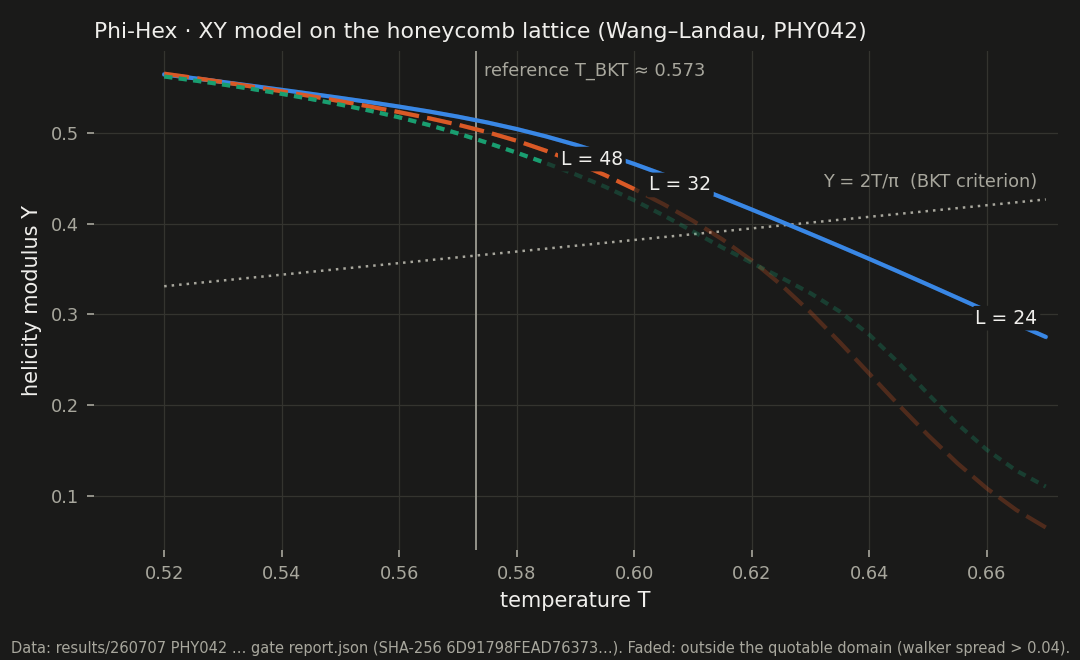
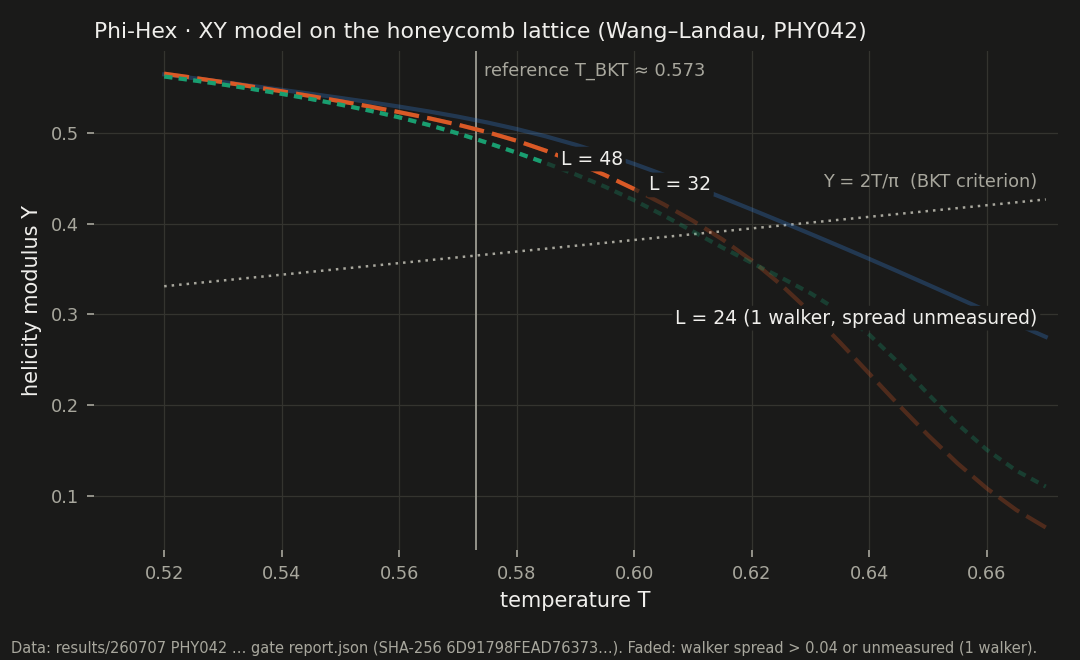
fix(#51): ordered pilot grid; requalify PHY042 L24 domain in README + figure
- _is_pilot_budget compares the grid in its supplied (ascending) order:
  run_phy043 keeps the caller's order and the crossing/tail scans assume
  ascending T, so a reordered complete grid no longer earns NR-PHY043-01.
  Regression test covers reversed and rotated grids (mutation-checked:
  restoring sorted() turns it red).
- README: L24 ran with one walker, so its spread domain is unmeasured; the
  JSON value 0.67 is the W4 erratum. Domain row and the (24,32) pair are
  requalified (pair spread only covers the L32 walkers).
- make_readme_figure.py ignores domain_tmax_spread004 for single-walker L
  (reads n_walkers); L=24 is drawn fully faded and labelled. PNGs regenerated.

Addresses both Codex P2 threads on e068b5d.

diff --git a/docs/figures/make_readme_figure.py b/docs/figures/make_readme_figure.py
@@ -4,6 +4,9 @@ Every plotted number is read from
 ``results/260707 PHY042 honeycomb wl-fss L24-32-48 gate report.json``; nothing
 is fitted or smoothed here. Curves are drawn solid inside each L's quotable
 domain (``domain_tmax_spread004``: walker spread <= 0.04) and faded beyond it.
+An L run with a single walker has no measured spread, so its historical
+``domain_tmax_spread004`` entry (the W4 data-semantics erratum, Issue #45) is
+ignored and the whole curve stays faded.
 
     python docs/figures/make_readme_figure.py
 
@@ -48,6 +51,7 @@ def draw(report: dict, sha16: str, theme: str) -> Path:
     ax.set_facecolor(c["surface"])
     curves = report["main_curves"]
     domains = report["domain_tmax_spread004"]
+    walkers = report["n_walkers"]
     t_all = curves[next(iter(curves))]["T"]
     ax.plot(t_all, [2.0 * t / math.pi for t in t_all], color=c["muted"],
             lw=1.2, ls=(0, (1, 2)), zorder=1)
@@ -60,7 +64,8 @@ def draw(report: dict, sha16: str, theme: str) -> Path:
                 xytext=(4, -12), textcoords="offset points", color=c["muted"], fontsize=8.5)
     for i, L in enumerate(sorted(curves, key=int)):
         T, y = curves[L]["T"], curves[L]["y2"]
-        tmax = domains.get(L)
+        # one walker -> spread unmeasured, not 0 (W4 erratum, PR #51 Codex)
+        tmax = domains.get(L) if walkers.get(L, 0) >= 2 else None
         color, ls = c["series"][i], LINESTYLES[i]
         inside = [k for k, t in enumerate(T) if tmax is not None and t <= tmax + 1e-12]
         ax.plot(T, y, color=color, lw=2, ls=ls, alpha=0.28, zorder=2)
@@ -68,13 +73,16 @@ def draw(report: dict, sha16: str, theme: str) -> Path:
             Ti = [T[k] for k in inside]
             yi = [y[k] for k in inside]
             ax.plot(Ti, yi, color=color, lw=2, ls=ls, zorder=3, solid_capstyle="round")
-            # label at the end of the quotable segment, where the curves separate
-            at_edge = Ti[-1] >= t_all[-1] - 1e-9
-            ax.annotate(f"L = {L}", xy=(Ti[-1], yi[-1]),
-                        xytext=(-4, 9) if at_edge else (7, 2),
-                        textcoords="offset points", ha="right" if at_edge else "left",
-                        va="center", color=c["ink"], fontsize=9,
-                        bbox={"boxstyle": "round,pad=0.15", "fc": c["surface"], "ec": "none"})
+        else:
+            Ti, yi = T, y
+        # label at the end of the quotable segment, where the curves separate
+        at_edge = Ti[-1] >= t_all[-1] - 1e-9
+        label = f"L = {L}" if inside else f"L = {L} (1 walker, spread unmeasured)"
+        ax.annotate(label, xy=(Ti[-1], yi[-1]),
+                    xytext=(-4, 9) if at_edge else (7, 2),
+                    textcoords="offset points", ha="right" if at_edge else "left",
+                    va="center", color=c["ink"], fontsize=9,
+                    bbox={"boxstyle": "round,pad=0.15", "fc": c["surface"], "ec": "none"})
     ax.set_xlabel("temperature T", color=c["ink"])
     ax.set_ylabel("helicity modulus Υ", color=c["ink"])
     ax.set_title("Phi-Hex · XY model on the honeycomb lattice (Wang–Landau, PHY042)",
@@ -87,7 +95,7 @@ def draw(report: dict, sha16: str, theme: str) -> Path:
     ax.set_xlim(t_all[0] - 0.012, t_all[-1] + 0.002)
     fig.text(0.01, 0.01,
              f"Data: results/260707 PHY042 … gate report.json (SHA-256 {sha16}…). "
-             "Faded: outside the quotable domain (walker spread > 0.04).",
+             "Faded: walker spread > 0.04 or unmeasured (1 walker).",
              color=c["muted"], fontsize=7)
     fig.tight_layout(rect=(0, 0.04, 1, 1))
     out = OUT / f"phy042_helicity_honeycomb_{theme}.png"

diff --git a/src/260808 PHY043 triangular convention-free crossing v01.py b/src/260808 PHY043 triangular convention-free crossing v01.py
@@ -516,10 +516,12 @@ def _is_pilot_budget(n_seeds: int, lattices_L, n_measure: int, temperatures,
         and int(n_measure) == PILOT_N_MEASURE
         and int(n_seeds) == PILOT_N_SEEDS
         and int(n_burn) == PILOT_N_BURN
-        # the complete grid, not just its maximum (PR #51 Codex 2026-10-17);
+        # the complete grid in its ascending order, not just its maximum or its
+        # set: run_phy043 keeps the supplied order and the crossing/tail scans
+        # assume ascending T (PR #51 Codex 2026-10-17, two rounds);
         # 1e-9 absorbs float64 grid construction only
         and len(temperatures) == len(PILOT_TEMPS)
-        and all(abs(float(t) - p) <= 1e-9 for t, p in zip(sorted(temperatures), PILOT_TEMPS))
+        and all(abs(float(t) - p) <= 1e-9 for t, p in zip(temperatures, PILOT_TEMPS))
     )
 
 

diff --git a/tests/test_phy043_convention_crossing.py b/tests/test_phy043_convention_crossing.py
@@ -232,6 +232,10 @@ def test_no_splay_nr_label_only_for_the_assessed_pilot_budget() -> None:
     for short in ([1.58], pilot_T[:-1], [1.40 + 0.02 * k for k in range(10)]):
         assert not phy043._is_pilot_budget(4, [9, 13, 19], 400, short, 300)
     assert not phy043._is_pilot_budget(4, [9, 13, 19], 400, pilot_T, 0)  # burn-in differs
+    # same set, wrong order: the crossing scans need ascending T, so no NR label
+    for reordered in (pilot_T[::-1], pilot_T[1:] + pilot_T[:1]):
+        assert not phy043._is_pilot_budget(4, [9, 13, 19], 400, reordered, 300)
+        assert "NR-PHY043" not in phy043._no_splay_finding(4, [9, 13, 19], 400, reordered, 300)
     production = phy043._no_splay_finding(8, [9, 13, 19, 25], 400, pilot_T, 300)
     assert "NR-PHY043" not in production and "UNBEWERTET" in production
 

diff --git a/README.md b/README.md
@@ -21,7 +21,8 @@ values. The documentation is in German.
 *Helicity modulus Υ(T) on the honeycomb lattice, L = 24/32/48 (Wang–Landau, PHY042), next to the
 BKT criterion Υ = 2T/π. Every point is read from the committed gate report
 `results/260707 PHY042 honeycomb wl-fss L24-32-48 gate report.json`. Faded segments lie outside
-the quotable domain. This is a pipeline result, **not** a new T_BKT best value (see *Mess-Stand*).
+the quotable domain; L = 24 ran with a single walker, so its spread is unmeasured and the whole
+curve stays faded (W4 erratum, Issue #45). This is a pipeline result, **not** a new T_BKT best value (see *Mess-Stand*).
 Regenerate with `python docs/figures/make_readme_figure.py`.*
 
 **Was:** Phi-Hex misst die BKT-Uebergangstemperatur des 2D-XY-Modells auf
@@ -123,20 +124,20 @@ PHY042 fuehrt den PHY041-Kernel auf L=24/32/48 mit getrennten Upsilon_2-/Upsilon
 | A: aligned `Upsilon_2(0) = 3/4 J` exakt | PASS |
 | max. kanonisches Rand-Leak | 1.6e-10 |
 | max. unbesetzte kanonische Masse in-Domaene | 1.9e-10 |
-| Validitaets-Domaene `T_max` (Walker-Spread < 0.04) | L24: 0.67, L32: 0.60, L48: 0.585 |
+| Validitaets-Domaene `T_max` (Walker-Spread < 0.04) | L24: **nicht gemessen** (1 Walker; der JSON-Wert 0.67 ist das W4-Erratum, siehe unten), L32: 0.60, L48: 0.585 |
 
 Upsilon_2-Paar-Schaetzer (C-eliminiert, Mittel-Kurven), Einordnung **nur relativ zum Referenzband**:
 
 | Paar | T_BKT | belastbar? |
 |---|---:|---|
-| (24,32) | 0.5875 | ja — Crossing in beiden Validitaets-Domaenen |
+| (24,32) | 0.5875 | **bedingt** — in der L32-Domaene; fuer L24 ist keine Spread-Domaene gemessen (1 Walker, W4-Erratum). Der Paar-Spread 0.013 erfasst nur die L32-Walker |
 | (24,48) | 0.5898 | **nein** — NR-PHY042-02 |
 | (32,48) | 0.5916 | **nein** — NR-PHY042-02 |
 
 Ehrliche Grenzen:
 
 - **Kein neuer Bestwert / kein finaler T_BKT-Claim.** L=48 bleibt endlich; die Walker-Systematik misst nur den Sampler (g(E)-Bias), nicht den finite-size-Bias. Ein neuer Bestwert braucht Cross-Family-Review.
-- **NR-PHY042-02:** Die Paare (24,48) und (32,48) crossen ausserhalb der gemeinsamen Validitaets-Domaene und sind bei diesem Statistik-Budget nicht belastbar (Walker-Spread 0.033 bzw. 0.039 in T_BKT vs. 0.013 fuer das quotable Paar (24,32)).
+- **NR-PHY042-02:** Die Paare (24,48) und (32,48) crossen ausserhalb der gemeinsamen Validitaets-Domaene und sind bei diesem Statistik-Budget nicht belastbar (Walker-Spread 0.033 bzw. 0.039 in T_BKT vs. 0.013 fuer das Paar (24,32), dessen Spread nur die L32-Walker erfasst).
 - **NR-PHY042-03:** Der Upsilon_4-Dip ist bei L in {32,48} nicht walker-robust (L=24 robust bei T=0.65; L=32/48 walker-abhaengig). Upsilon_4-FSS oberhalb L=24 braucht mehr Produktion.
 
 ## PHY043 — Konventionsfreier Quercheck triangular (Audit O1; Finding, kein Bestwert)
